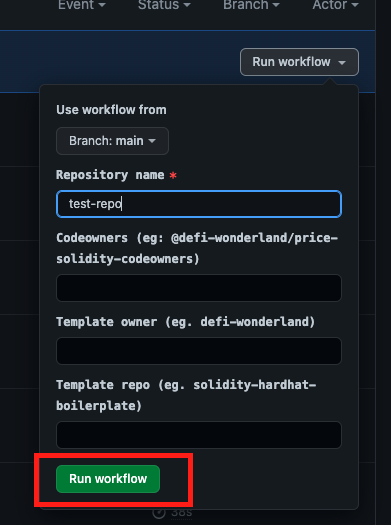
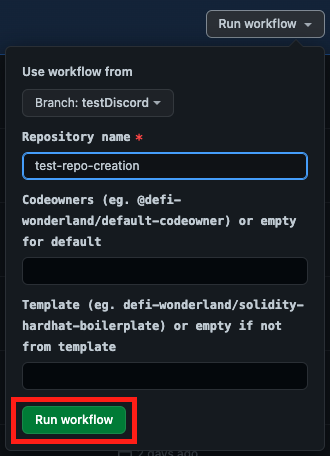
feat: add discord notifications

diff --git a/src/create-repo.ts b/src/create-repo.ts
@@ -1,4 +1,5 @@
 import { GithubApi } from './api/github-api';
+import { notifyDiscord } from './utils/discord';
 import { getEnvVariable, getEnvVariableOrEmpty } from './utils/env';
 import { RepoCheckers } from './utils/repo-checkers';
 import { RepoUtils } from './utils/repo-utils';
@@ -13,34 +14,46 @@ const createRepo = async () => {
   const codeowner = getEnvVariableOrEmpty('GH_CODEOWNER');
   const template = getEnvVariableOrEmpty('GH_TEMPLATE');
   const repoCheckers = new RepoCheckers(githubApi, owner, repo, template, admin);
+  const discordChannel = getEnvVariableOrEmpty('DISCORD_CHANNEL');
 
-  if (template != '') {
-    await repoUtils.createRepoFromTemplate(owner, repo, template);
-    console.log('Waiting for repo to be created...');
-    await new Promise((f) => setTimeout(f, 5000));
-  } else {
-    await repoUtils.createRepo(owner, repo, '');
+  notifyDiscord(discordChannel, `${admin} triggered repo creation: **${repo}** for **${owner}** org 📦 `);
+
+  try {
+    if (template != '') {
+      await repoUtils.createRepoFromTemplate(owner, repo, template);
+      console.log('Waiting for repo to be created...');
+      await new Promise((f) => setTimeout(f, 5000));
+    } else {
+      await repoUtils.createRepo(owner, repo, '');
+    }
+
+    const branches = await repoUtils.listBranches(owner, repo);
+
+    if (branches[0].name != 'main') {
+      await repoUtils.renameBranch(owner, repo, branches[0].name, 'main');
+    }
+
+    await repoUtils.addCodeowners(owner, repo, codeowner == '' ? 'defi-wonderland/default-codeowner' : codeowner);
+    await repoUtils.addCollaborator(owner, repo, admin, 'admin');
+    const sha = await repoUtils.getMainBrancRef(owner, repo);
+    await repoUtils.createBranch(owner, repo, 'dev', sha);
+    await repoUtils.updateRepo(owner, repo, '');
+    await repoUtils.updateBranchProtection(owner, repo, 'main', true);
+    await repoUtils.requireSignature(owner, repo, 'main');
+    await repoUtils.updateBranchProtection(owner, repo, 'dev', false);
+    await repoUtils.requireSignature(owner, repo, 'dev');
+
+    repoCheckers.checkAll();
+
+    console.log(`Link to the repo https://github.com/${owner}/${repo}`);
+    notifyDiscord(discordChannel, `Repo **${repo}** successfully created 🚀 \nLink to the repo https://github.com/${owner}/${repo}`);
+  } catch (err) {
+    console.error(err);
+    await notifyDiscord(
+      discordChannel,
+      `Repo **${repo}** creation failed ❌ please check the detailed logs at: https://github.com/defi-wonderland/repo-creatooor/actions/workflows/repo-creation.yml`
+    );
   }
-
-  const branches = await repoUtils.listBranches(owner, repo);
-
-  if (branches[0].name != 'main') {
-    await repoUtils.renameBranch(owner, repo, branches[0].name, 'main');
-  }
-
-  await repoUtils.addCodeowners(owner, repo, codeowner == '' ? 'defi-wonderland/default-codeowner' : codeowner);
-  await repoUtils.addCollaborator(owner, repo, admin, 'admin');
-  const sha = await repoUtils.getMainBrancRef(owner, repo);
-  await repoUtils.createBranch(owner, repo, 'dev', sha);
-  await repoUtils.updateRepo(owner, repo, '');
-  await repoUtils.updateBranchProtection(owner, repo, 'main', true);
-  await repoUtils.requireSignature(owner, repo, 'main');
-  await repoUtils.updateBranchProtection(owner, repo, 'dev', false);
-  await repoUtils.requireSignature(owner, repo, 'dev');
-
-  repoCheckers.checkAll();
-
-  console.log(`Link to the repo https://github.com/${owner}/${repo}`);
 };
 
 createRepo();

diff --git a/src/utils/discord.ts b/src/utils/discord.ts
@@ -1,0 +1,8 @@
+import axios, { AxiosResponse } from 'axios';
+
+export const notifyDiscord = async (channel: string, message: string): Promise<AxiosResponse<any, any>> => {
+  const result = await axios.post(channel, {
+    content: message,
+  });
+  return result;
+};
